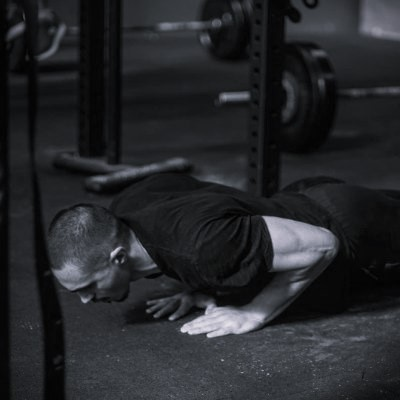
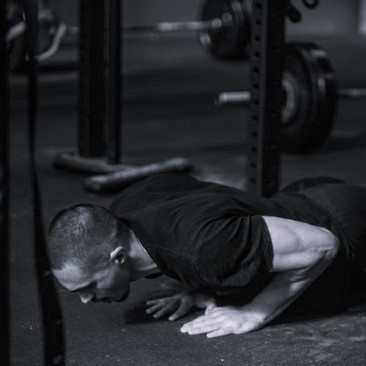
Tweak landing page; update founder image
Made-with: Cursor

diff --git a/index.html b/index.html
@@ -626,9 +626,9 @@ nav.scrolled { border-bottom-color: var(--border); }
   pointer-events: none;
 }
 .founder-img {
-  width: 120px;
-  height: 120px;
-  min-width: 120px;
+  width: 180px;
+  height: 180px;
+  min-width: 180px;
   border-radius: 16px;
   object-fit: cover;
   border: 2px solid var(--border);
@@ -803,7 +803,7 @@ footer { padding: 40px 0; border-top: 1px solid var(--border); }
       <p class="hero-desc" data-i18n="hero_desc">
         A privacy-first workout companion that helps you train smarter, stay consistent, and see real progress over time. Offline-first. No social feed. No ads. Just training and data.
       </p>
-      <p class="fomo-line" data-i18n="fomo_cta">Get early beta access before spots run out and <strong>unlock every Pro feature free for life.</strong></p>
+      <p class="fomo-line" data-i18n="fomo_cta">Be one of the first 100 beta testers and <strong>unlock every Pro feature free for life.</strong></p>
       <form class="hero-form" id="heroForm" onsubmit="return handleWaitlist(event,'hero')">
         <input type="email" class="hero-input" data-i18n-placeholder="form_placeholder" placeholder="your@email.com" required>
         <button type="submit" class="hero-submit" data-i18n="form_button">Claim Free Pro</button>
@@ -1129,7 +1129,7 @@ footer { padding: 40px 0; border-top: 1px solid var(--border); }
       <p class="cta-desc" data-i18n="cta_desc">
         Be the first to try THYMOS when it launches. Join the waitlist and get notified the moment it's ready.
       </p>
-      <p class="fomo-line" data-i18n="fomo_cta">Get early beta access before spots run out and <strong>unlock every Pro feature free for life.</strong></p>
+      <p class="fomo-line" data-i18n="fomo_cta">Be one of the first 100 beta testers and <strong>unlock every Pro feature free for life.</strong></p>
       <form class="cta-form" id="ctaForm" onsubmit="return handleWaitlist(event,'cta')">
         <input type="email" class="cta-input" data-i18n-placeholder="form_placeholder" placeholder="your@email.com" required>
         <button type="submit" class="cta-submit" data-i18n="form_button">Claim Free Pro</button>
@@ -1166,7 +1166,7 @@ const translations = {
     form_button: "Claim Free Pro",
     form_success: "You're on the list. We'll be in touch.",
     form_note: "No spam. Unsubscribe anytime.",
-    fomo_cta: "Get early beta access before spots run out and <strong>unlock every Pro feature free for life.</strong>",
+    fomo_cta: "Be one of the first 100 beta testers and <strong>unlock every Pro feature free for life.</strong>",
     metric_1: "PER-SET LOGGING", metric_2: "NO INTERNET NEEDED", metric_3: "ZERO TRACKERS", metric_4: "DROP · AMRAP · MORE",
     metric_2_val: "Offline", metric_3_val: "Ads", metric_4_val: "Set Types",
     features_tag: "FEATURES",
@@ -1241,7 +1241,7 @@ const translations = {
     form_button: "Ücretsiz Pro Al",
     form_success: "Listedesin. Seninle iletişime geçeceğiz.",
     form_note: "Spam yok. İstediğin zaman çık.",
-    fomo_cta: "Yerler dolmadan erken beta erişimini al ve <strong>tüm Pro özelliklerin kilidini ömür boyu ücretsiz aç.</strong>",
+    fomo_cta: "İlk 100 beta testçisinden biri ol ve <strong>tüm Pro özelliklerin kilidini ömür boyu ücretsiz aç.</strong>",
     metric_1: "SET BAŞINA KAYIT", metric_2: "İNTERNET GEREKMEZ", metric_3: "SIFIR TAKİP", metric_4: "DROP · AMRAP · DİĞER",
     metric_2_val: "Çevrimdışı", metric_3_val: "Reklam", metric_4_val: "Set Tipi",
     features_tag: "ÖZELLİKLER",
